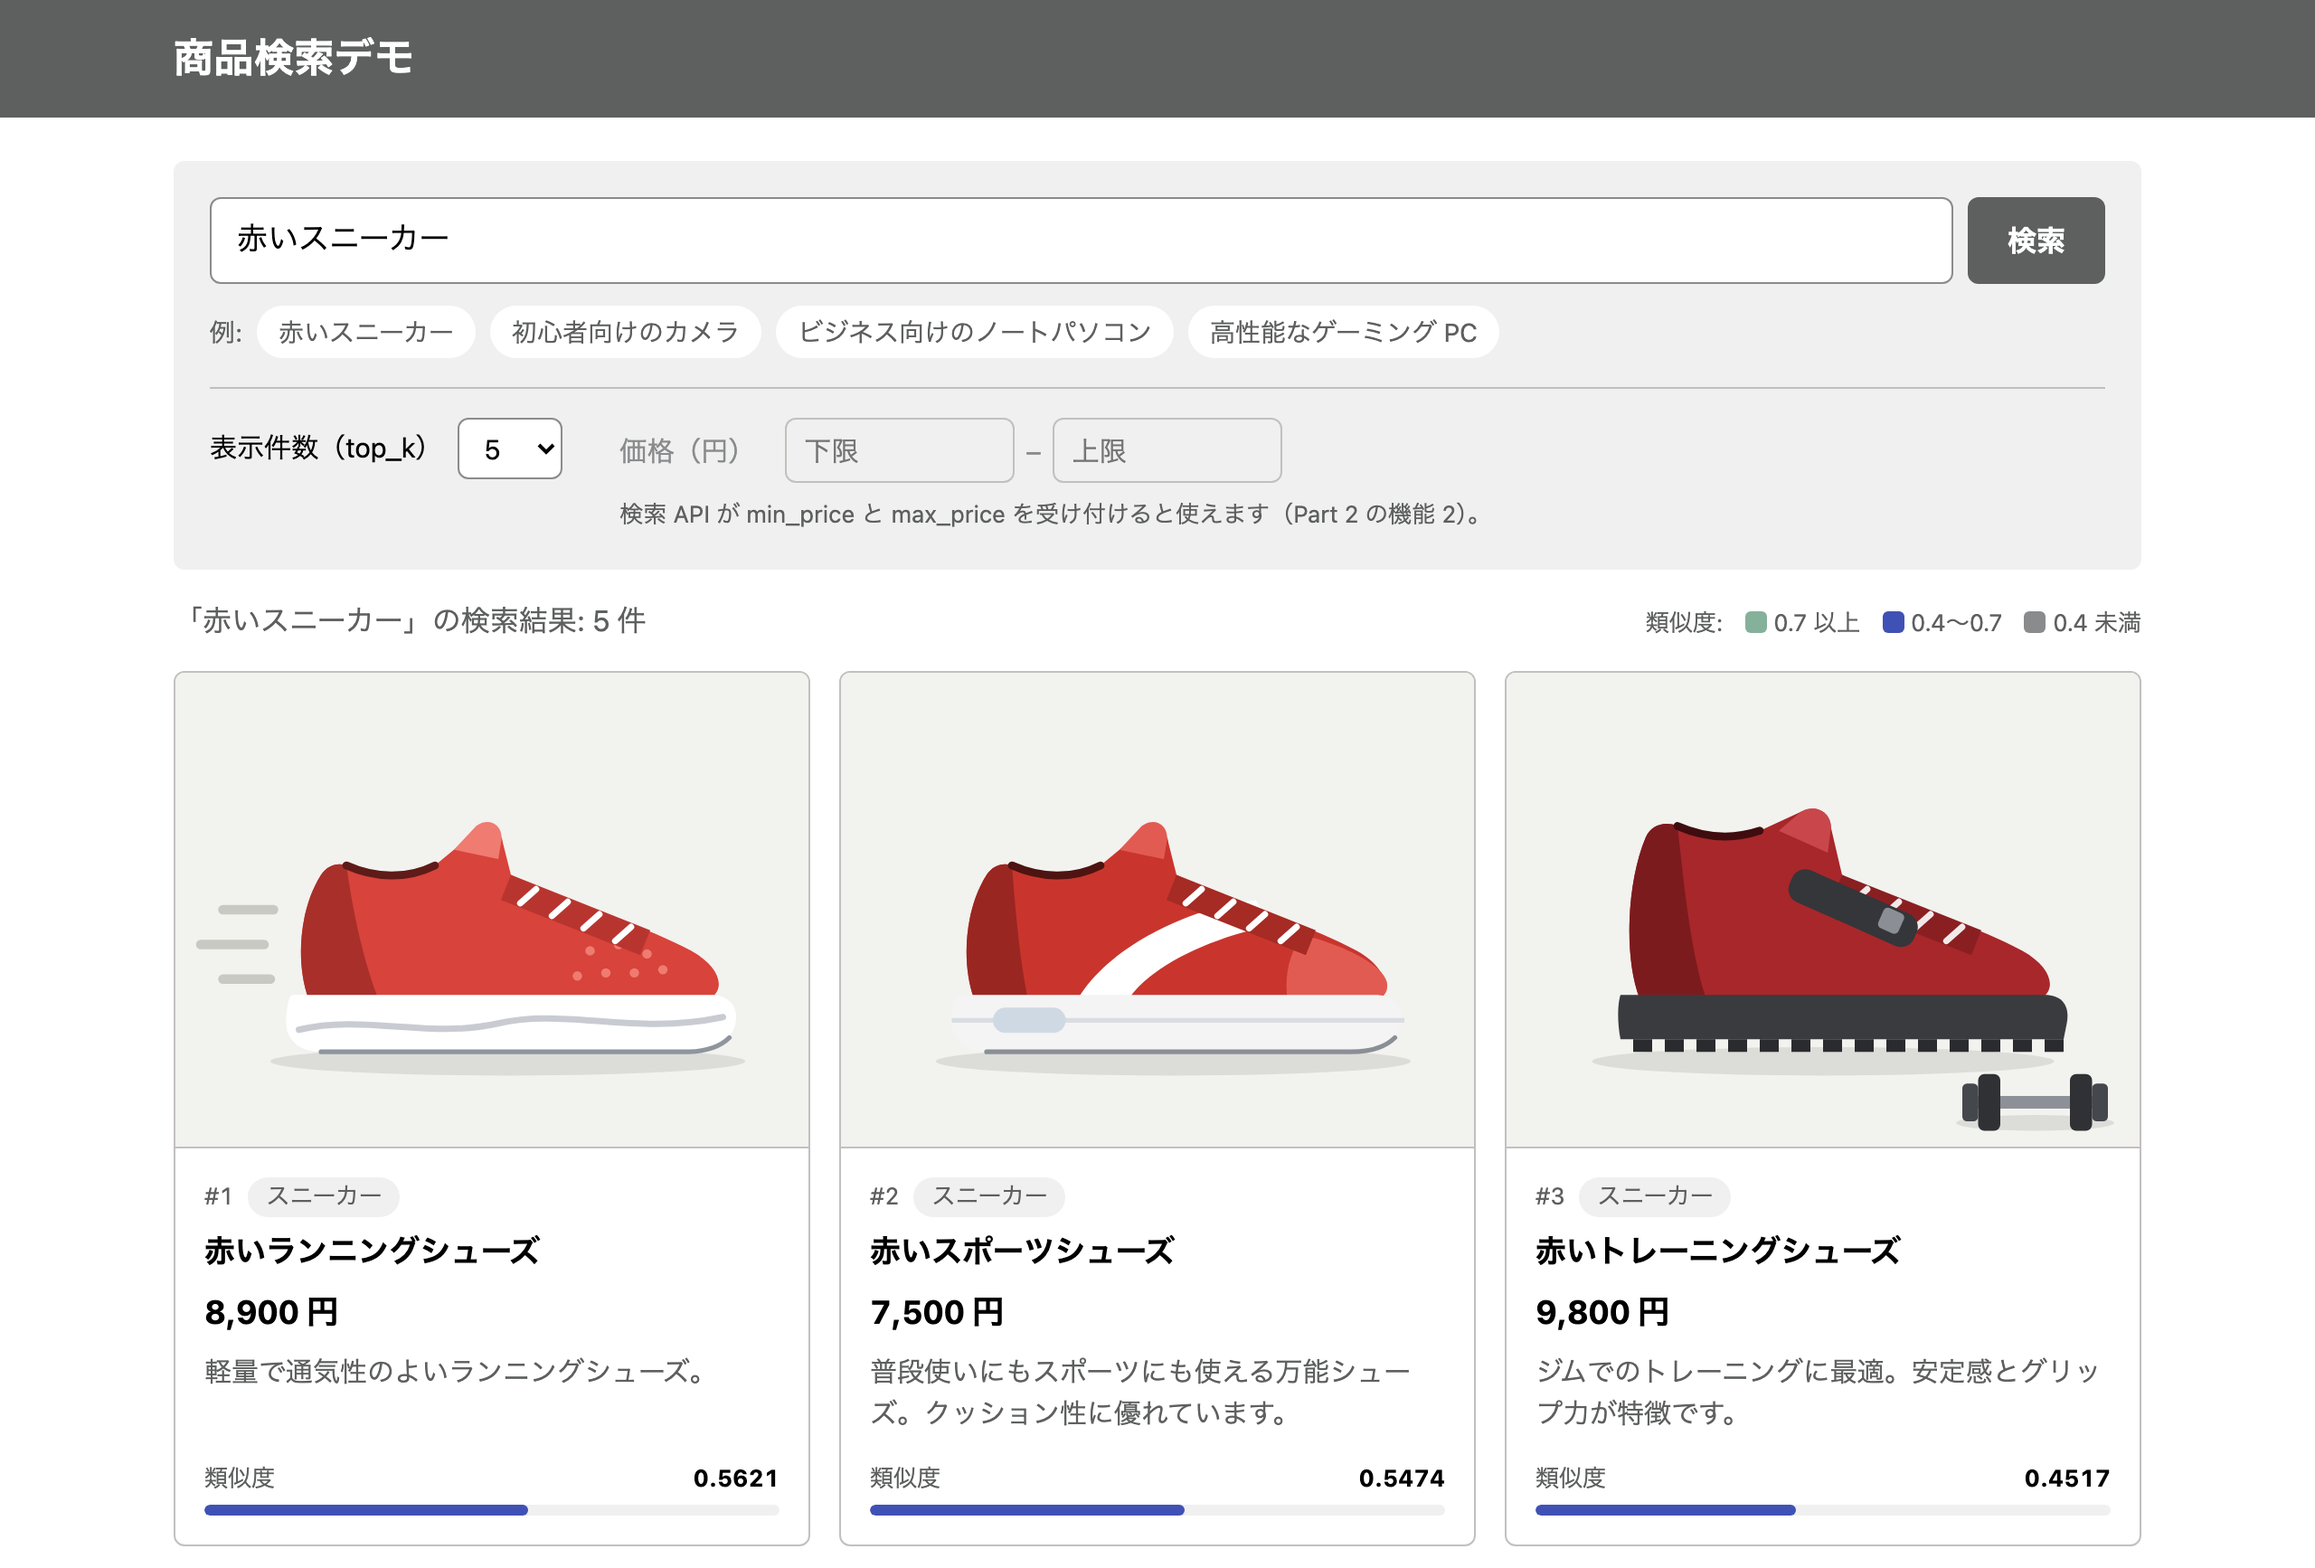
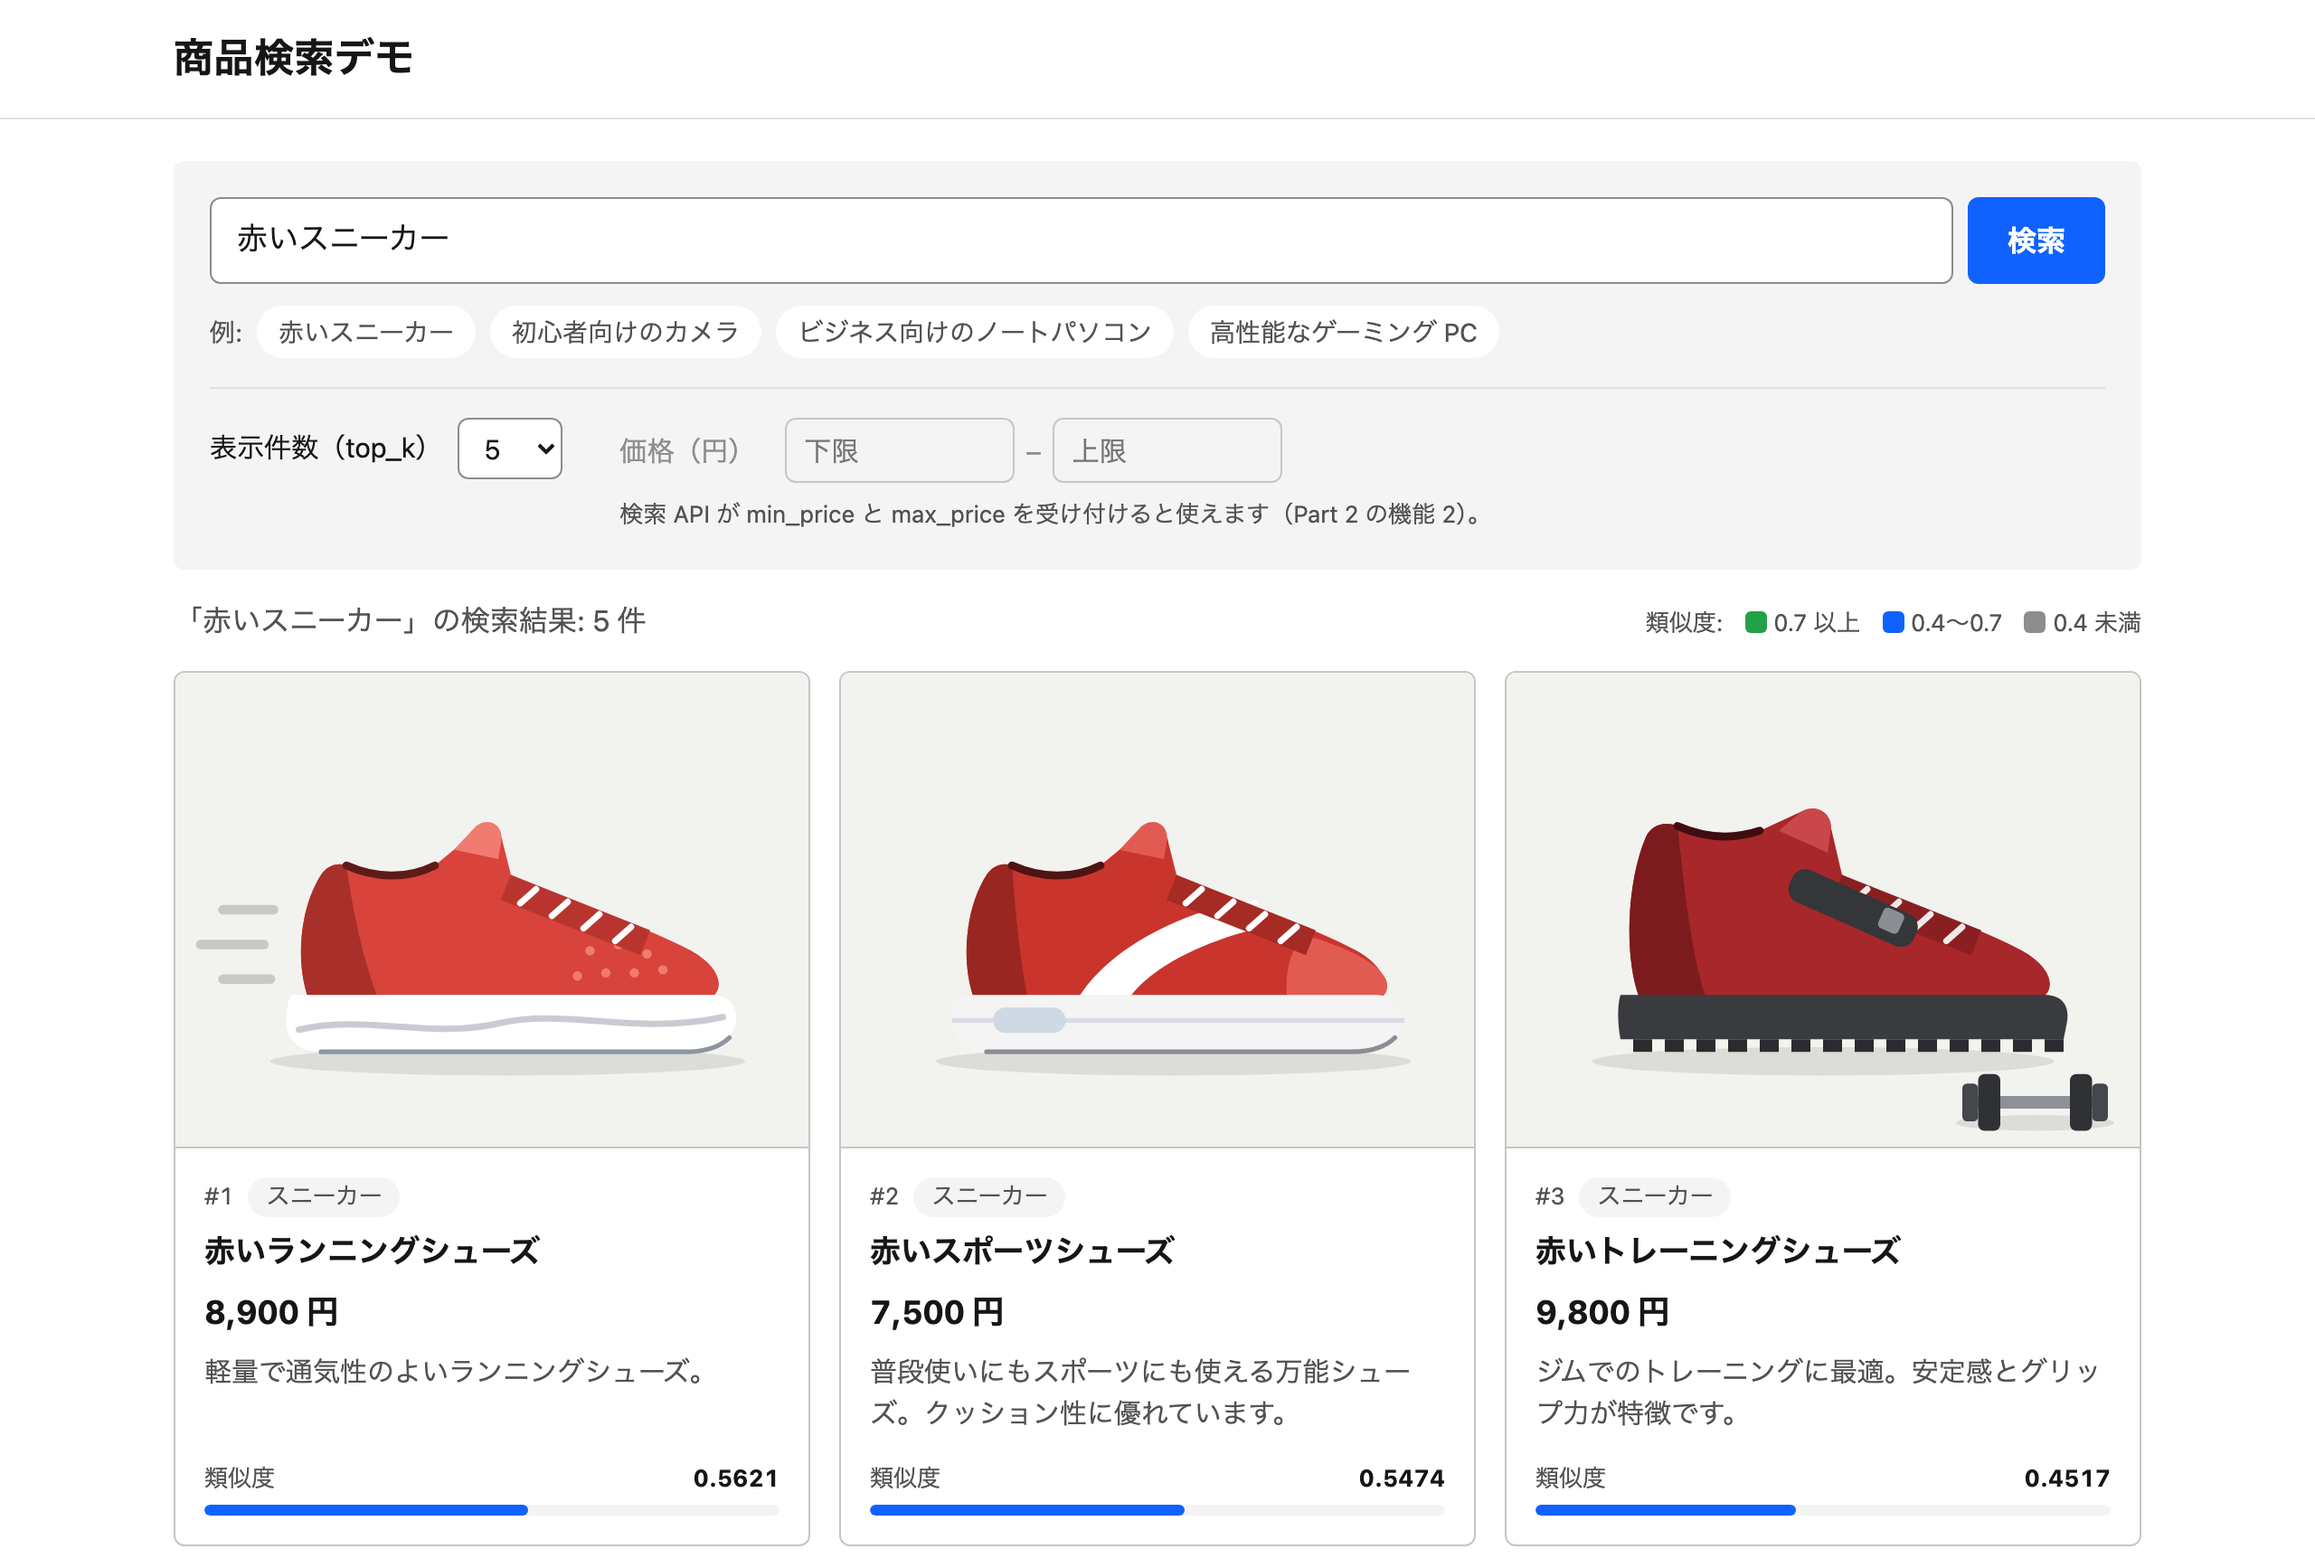
style: adopt the Build with IBM colors on the search screen
Copy the new site tokens into the search screen: a white header with a
Gray 20 rule, a Blue 60 search button with Blue 70 on hover, Gray 70
secondary text, and similarity bars in Green 50 (0.7 and above), Blue 60
(0.4 to 0.7), and Gray 50 (below 0.4); the thresholds are unchanged.
Error text uses Red 70 on the diagrams' red band to keep 4.5:1.

Retake the eight search screen screenshots in docs/images with the new
colors; the layout, the queries, and the scores are the same.

diff --git a/setup/participant/static/style.css b/setup/participant/static/style.css
@@ -3,18 +3,21 @@
 
 :root {
   /* Values copied from docs/stylesheets/palette.css */
-  --accent: #4051b5;          /* --workshop-accent */
-  --accent-tint: #4051b514;   /* --md-accent-fg-color--transparent */
-  --gray: #8a8b8c;            /* --workshop-gray */
-  --gray-light: #c2c0bf;      /* --workshop-gray-light */
-  --black: #000000;           /* --workshop-black */
-  --heading: #5e5f5f;         /* color-mix(in srgb, #8a8b8c 68%, black) */
-  --surface: #f0f0f0;         /* color-mix(in srgb, #c2c0bf 24%, white) */
-  --support: #85b09a;         /* --workshop-support */
-  --support-focus: #f5f9f7;   /* color-mix(in srgb, #85b09a 8%, white) */
-  /* Errors use the diagrams' red (docs/images/without-building-blocks-*.svg) */
-  --error: #b34a4a;
-  --error-tint: #f9f1f1;      /* color-mix(in srgb, #b34a4a 8%, white) */
+  --accent: #0f62fe;          /* --workshop-accent */
+  --accent-strong: #0043ce;   /* --workshop-accent-strong */
+  --accent-tint: #0f62fe14;   /* --md-accent-fg-color--transparent */
+  --gray: #8d8d8d;            /* --workshop-gray */
+  --gray-light: #c6c6c6;      /* --workshop-gray-light */
+  --rule: #e0e0e0;            /* --workshop-rule */
+  --black: #161616;           /* --workshop-black */
+  --secondary: #525252;       /* --workshop-secondary */
+  --surface: #f4f4f4;         /* --workshop-surface */
+  --support: #24a148;         /* --workshop-support */
+  --support-focus: #edf7f0;   /* color-mix(in srgb, #24a148 8%, white) */
+  /* Errors use the red band of the diagrams (docs/images/without-building-blocks-*.svg)
+     with the next darker red for the text, which keeps 4.5:1 on the band */
+  --error: #a2191f;           /* Red 70 */
+  --error-tint: #fcedee;      /* color-mix(in srgb, #da1e28 8%, white) */
   --radius: 6px;
 }
 
@@ -59,8 +62,9 @@ body {
 /* Header: the site's header colours */
 
 .site-header {
-  background: var(--heading);
-  color: #ffffff;
+  background: #ffffff;
+  color: var(--black);
+  box-shadow: 0 1px 0 var(--rule);
 }
 
 .site-title {
@@ -108,7 +112,7 @@ button {
   padding: 10px 22px;
   border: 0;
   border-radius: var(--radius);
-  background: var(--heading);
+  background: var(--accent);
   color: #ffffff;
   font-weight: 700;
   cursor: pointer;
@@ -117,7 +121,7 @@ button {
 
 .search-button:hover,
 .search-button:focus {
-  background: var(--accent);
+  background: var(--accent-strong);
 }
 
 .search-button:disabled {
@@ -138,7 +142,7 @@ button:focus-visible {
   align-items: center;
   gap: 8px;
   margin-top: 12px;
-  color: var(--heading);
+  color: var(--secondary);
   font-size: 0.875rem;
 }
 
@@ -153,14 +157,14 @@ button:focus-visible {
   border: 0;
   border-radius: 999px;
   background: #ffffff;
-  color: var(--heading);
+  color: var(--secondary);
   font-size: 0.875rem;
   cursor: pointer;
 }
 
 .example:hover {
   background: var(--accent-tint);
-  color: var(--accent);
+  color: var(--accent-strong);
 }
 
 .options {
@@ -170,7 +174,7 @@ button:focus-visible {
   gap: 16px 32px;
   margin-top: 16px;
   padding-top: 16px;
-  border-top: 1px solid var(--gray-light);
+  border-top: 1px solid var(--rule);
   font-size: 0.9375rem;
 }
 
@@ -229,7 +233,7 @@ button:focus-visible {
 .price-note {
   flex-basis: 100%;
   margin: 0;
-  color: var(--heading);
+  color: var(--secondary);
   font-size: 0.8125rem;
 }
 
@@ -246,7 +250,7 @@ button:focus-visible {
 
 .status {
   flex: 1 1 auto;
-  color: var(--heading);
+  color: var(--secondary);
 }
 
 .status p {
@@ -288,7 +292,7 @@ button:focus-visible {
   align-items: center;
   gap: 4px 12px;
   margin: 0;
-  color: var(--heading);
+  color: var(--secondary);
   font-size: 0.8125rem;
 }
 
@@ -359,7 +363,7 @@ button:focus-visible {
 }
 
 .card-image--missing {
-  color: var(--heading);
+  color: var(--secondary);
   font-size: 0.875rem;
 }
 
@@ -379,7 +383,7 @@ button:focus-visible {
 }
 
 .card-rank {
-  color: var(--heading);
+  color: var(--secondary);
   font-variant-numeric: tabular-nums;
 }
 
@@ -387,7 +391,7 @@ button:focus-visible {
   padding: 1px 10px;
   border-radius: 999px;
   background: var(--surface);
-  color: var(--heading);
+  color: var(--secondary);
 }
 
 .card-title {
@@ -405,7 +409,7 @@ button:focus-visible {
 
 .card-description {
   margin: 0;
-  color: var(--heading);
+  color: var(--secondary);
   font-size: 0.9375rem;
 }
 
@@ -418,7 +422,7 @@ button:focus-visible {
   display: flex;
   justify-content: space-between;
   margin-bottom: 4px;
-  color: var(--heading);
+  color: var(--secondary);
   font-size: 0.8125rem;
 }
 
@@ -454,7 +458,7 @@ button:focus-visible {
 }
 
 .card-reason-label {
-  color: var(--heading);
+  color: var(--secondary);
   font-size: 0.75rem;
   font-weight: 700;
 }
